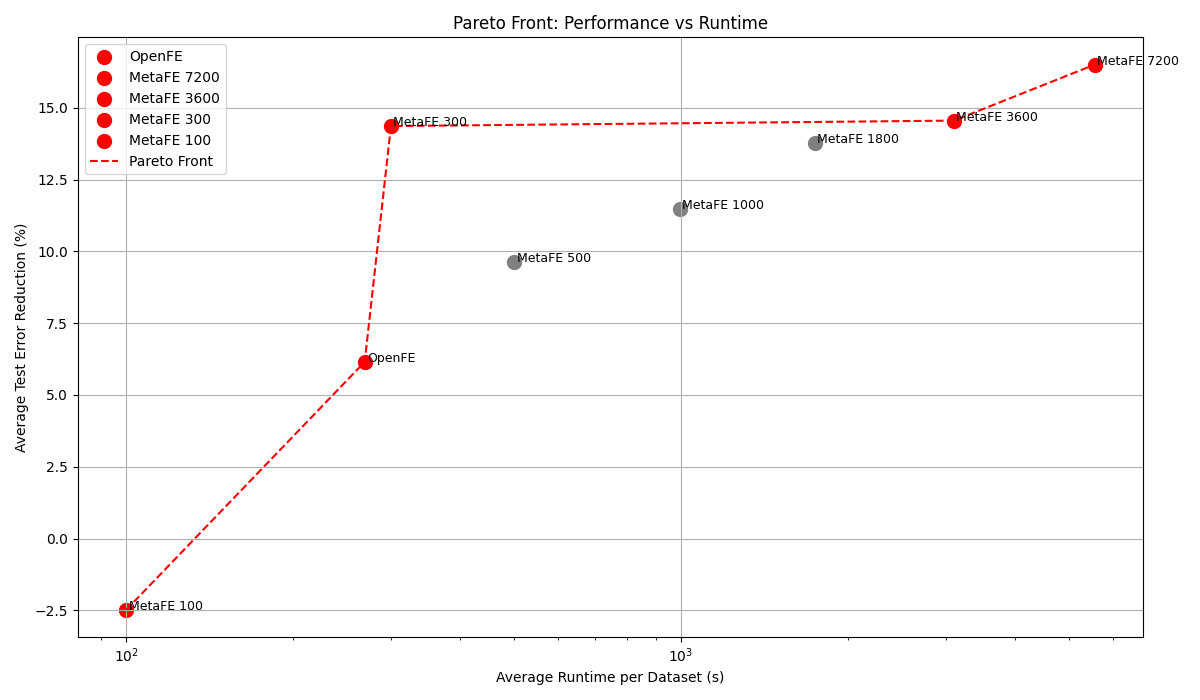
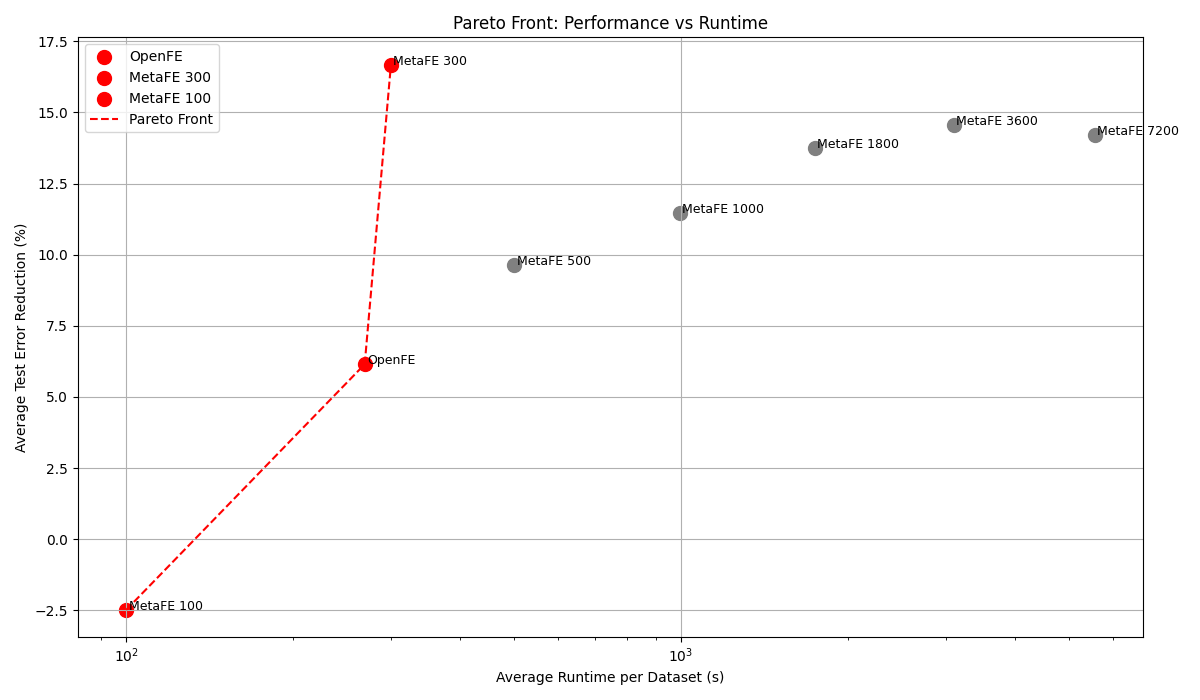
Update pareto

diff --git a/src/Result_Analysis/test_analysis/test_analysis.py b/src/Result_Analysis/test_analysis/test_analysis.py
@@ -450,8 +450,7 @@ def plot_boxplot_percentage_impr(baseline_col, df_pivot, name):
     plt.show()
 
 
-def plot_pareto_front(df_pivot_test):
-
+def plot_pareto_front():
     # Example usage
     baseline = "Original"  # or however your baseline is called in df_pivot_test
     performance = pd.DataFrame(columns=['SM - Method', 'Performance'])
@@ -459,15 +458,15 @@ def plot_pareto_front(df_pivot_test):
     performance = pd.concat([performance, pd.DataFrame(["MetaFE Random", 16.50])], ignore_index=True)
     performance = pd.concat([performance, pd.DataFrame(["MetaFE 3600", 15.146])], ignore_index=True)
     performance = pd.concat([performance, pd.DataFrame(["MetaFE 1800", 14.48])], ignore_index=True)
-    performance = pd.concat([performance, pd.DataFrame(["MetaFE 300", 10.92])], ignore_index=True)
+    performance = pd.concat([performance, pd.DataFrame(["MetaFE 300", .92])], ignore_index=True)
     performance = pd.DataFrame([
         {"SM - Method": "OpenFE", "Performance": 6.15},
-        {"SM - Method": "MetaFE 7200", "Performance": 16.50},
+        {"SM - Method": "MetaFE 7200", "Performance": 14.19},
         {"SM - Method": "MetaFE 3600", "Performance": 14.55},
         {"SM - Method": "MetaFE 1800", "Performance": 13.76},
         {"SM - Method": "MetaFE 1000", "Performance": 11.46},
         {"SM - Method": "MetaFE 500", "Performance": 9.63},
-        {"SM - Method": "MetaFE 300", "Performance": 14.36},  # 24.43, 18.45
+        {"SM - Method": "MetaFE 300", "Performance": 16.68},  # 24.43, 18.45
         {"SM - Method": "MetaFE 100", "Performance": -2.48}
     ])
 
@@ -545,6 +544,8 @@ def test_analysis():
         print("")
 
     # Plot
+    plot_pareto_front()
+
     plot_score_graph(dataset_list_wrapped, df_pivot_val, df_pivot_val_std, "Val")
     plot_score_graph(dataset_list_wrapped, df_pivot_test, df_pivot_test_std, "Test")
 
@@ -592,7 +593,6 @@ def test_analysis():
     df_pivot_val_openfe_std = df_pivot_val_std[["OpenFE", "Pandas, recursive SM", "Original"]]
     df_pivot_test_openfe = df_pivot_test[["OpenFE", "Pandas, recursive SM", "Original"]]
     df_pivot_test_openfe_std = df_pivot_test_std[["OpenFE", "Pandas, recursive SM", "Original"]]
-    plot_pareto_front(df_pivot_test_openfe)
     # Plot
 
     plot_avg_percentage_impr(baseline_col, df_pivot_val_openfe, df_pivot_val_openfe_std, "Val_openfe_pandas", True)
